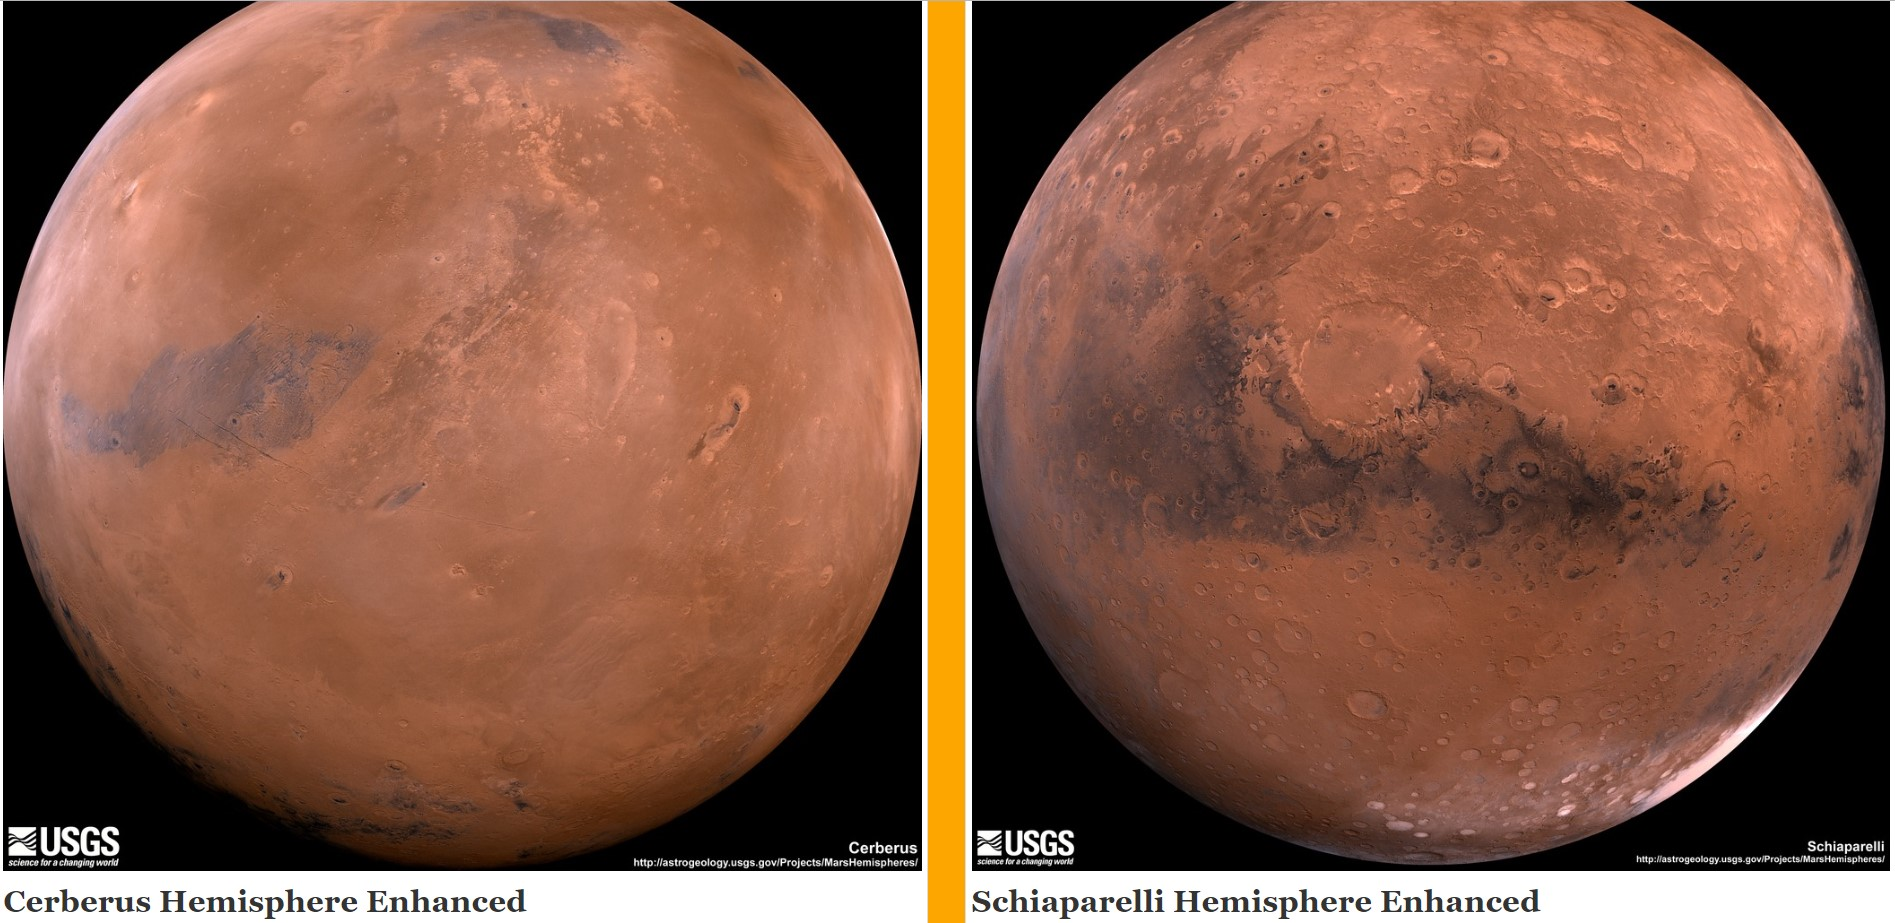
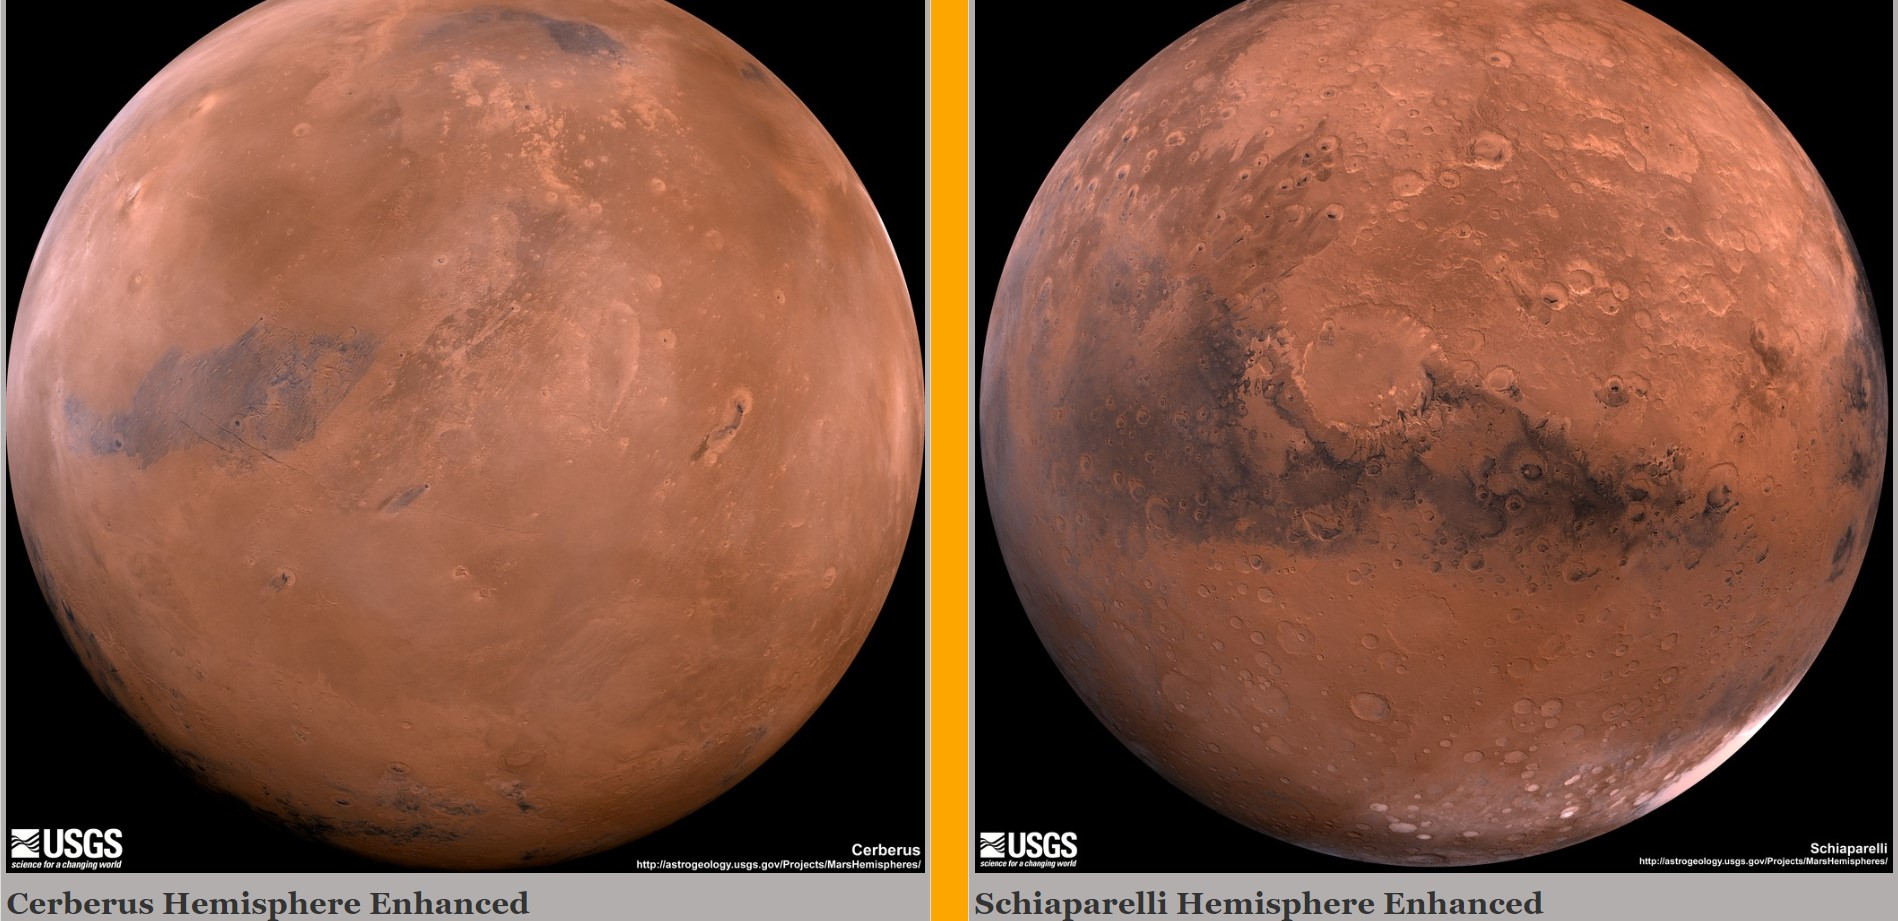
Final Push

diff --git a/Web-Scraping-and-Document-Databases/static/styles/style.css b/Web-Scraping-and-Document-Databases/static/styles/style.css
@@ -56,13 +56,18 @@ p.card-text {
 }
 
 /* Hemisphere image style  */
-.hem_image {
-    width: 800px;
-    height: 800px;
+.hemi_image {
+    width: 750px;
+    height: 750px;
 }
 
 /* h4 Card Text style  */
 h4.card-text {
     font-family: Georgia, 'Times New Roman', Times, serif;
     font-size: 25px;
+}
+
+/* Thumbnail style  */
+.thumbnail {
+    background: rgb(177, 174, 174);
 }
